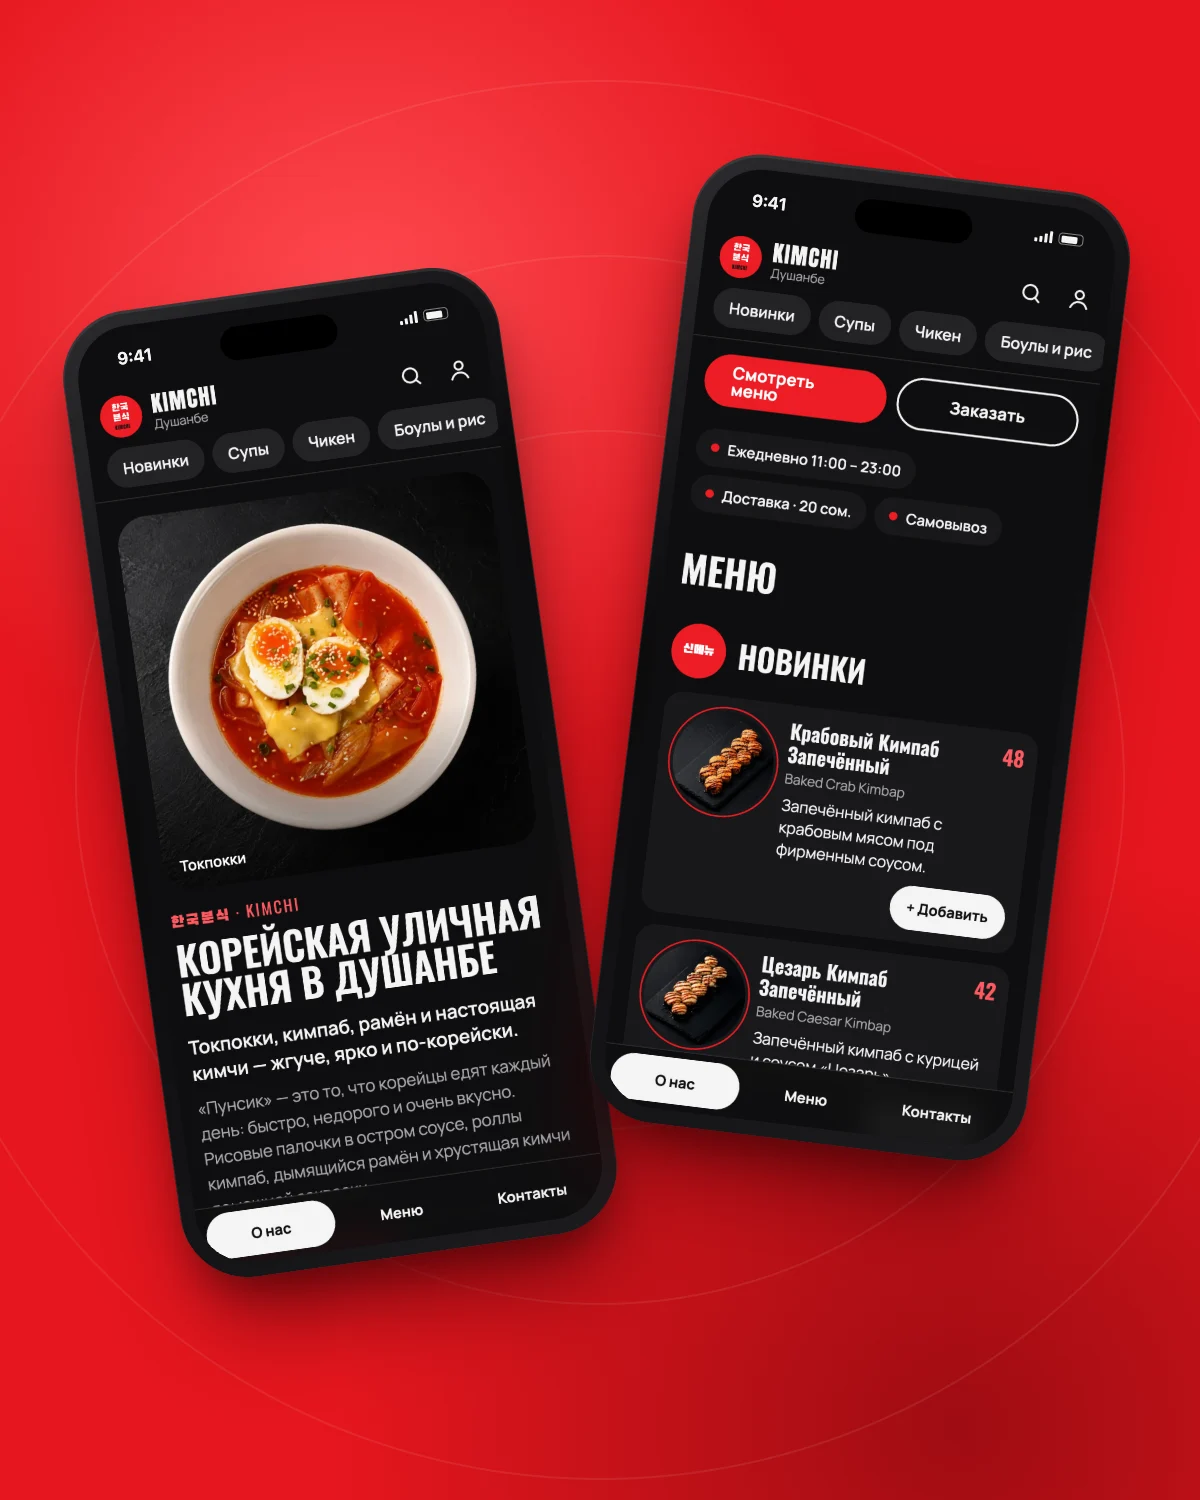
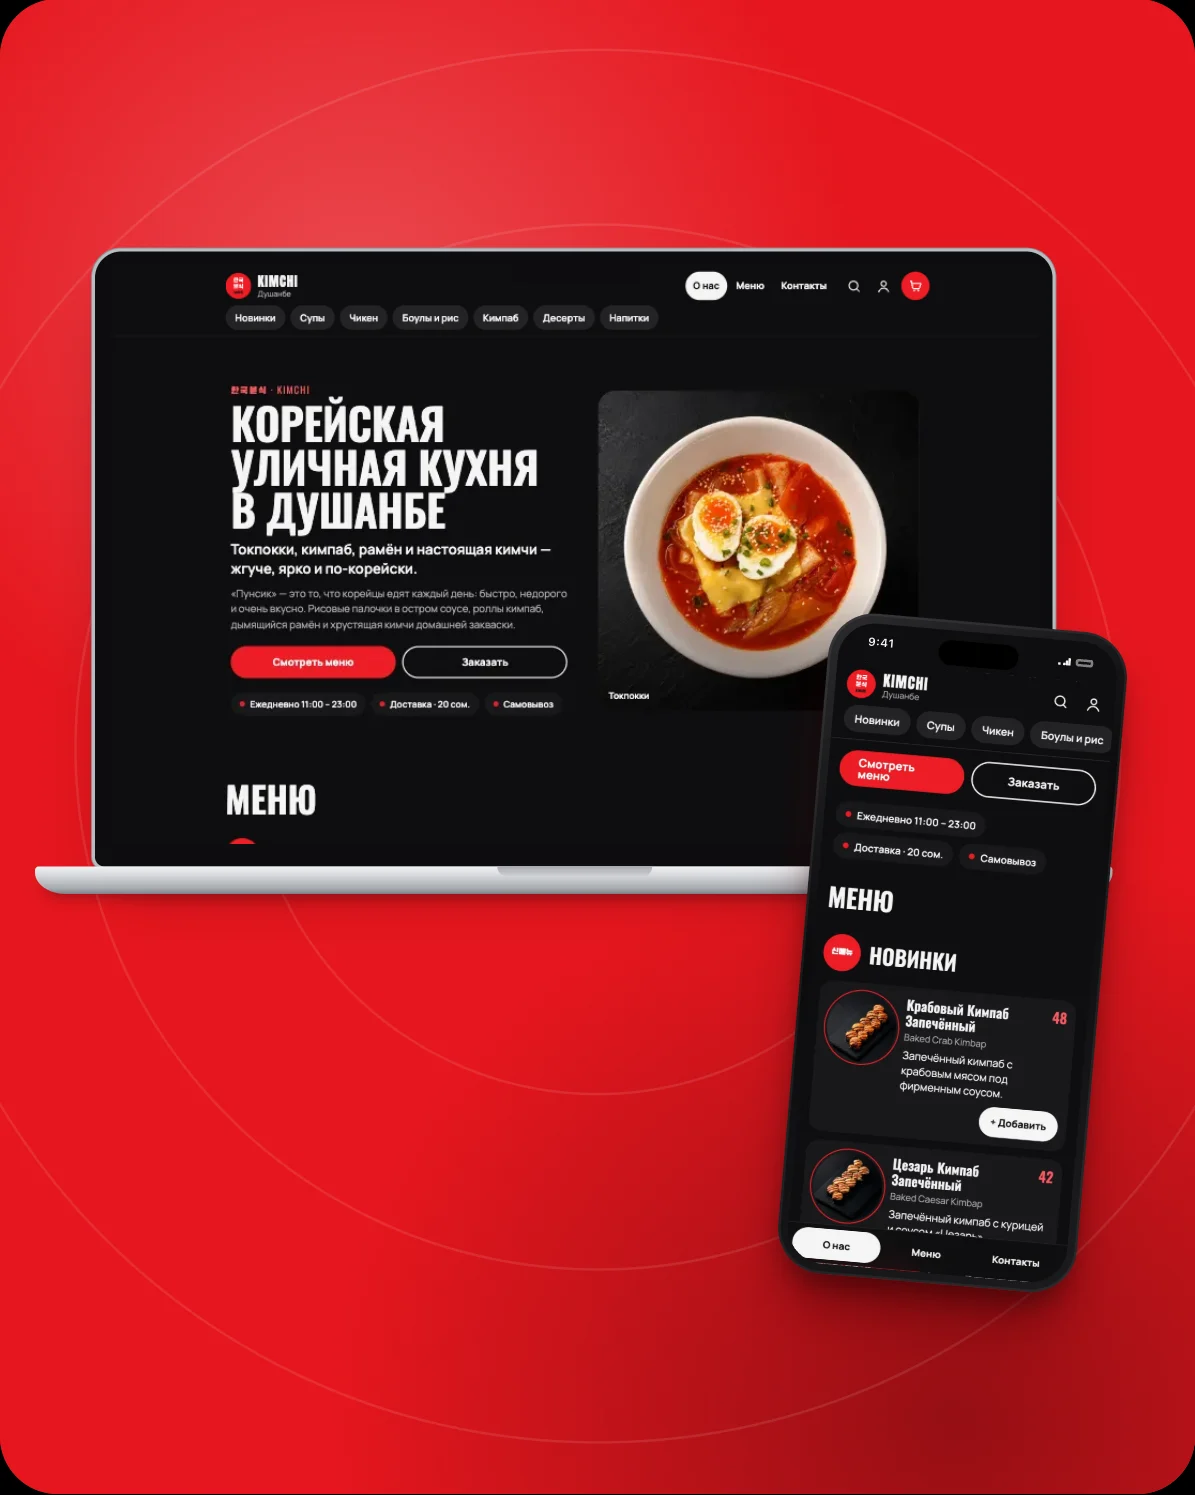
KIMCHI card: laptop + phone instead of two phones
New DeviceMock component: a MacBook-style laptop (thin bezel, notch,
silver base) showing the desktop site, with a phone in front showing
the mobile site. Both screens scroll on hover. Mobile assets renamed
to mobile-*, desktop screenshots added, cover image regenerated.

diff --git a/src/styles/global.css b/src/styles/global.css
@@ -272,8 +272,9 @@ a:hover > .roll > span, a:hover > .roll::after, .roll:hover > span, .roll:hover:
 .card__ph { width: 100%; height: 100%; display: grid; place-items: center; align-content: center; gap: 18px; color: rgba(31,29,36,.85); font-weight: 500; }
 .card__ph svg { width: 34%; transition: transform 1.2s var(--ease-out); }
 .card:hover .card__ph svg { transform: rotate(90deg); }
-/* Live phone mockup (PhoneMock.astro). Sized in cqw of the card so the whole scene
-   scales with it; the design grid is 1200x1500, so 1cqw = 12 design px. */
+/* Live device mockup (DeviceMock.astro): a laptop with a phone in front of it.
+   Sized in cqw of the card so the whole scene scales with it; the design grid is
+   1200x1500, so 1cqw = 12 design px. */
 .card__media { container-type: inline-size; }
 .card__inner { position: relative; }
 .mock {
@@ -284,46 +285,76 @@ a:hover > .roll > span, a:hover > .roll::after, .roll:hover > span, .roll:hover:
     var(--bg);
 }
 .mock__ring {
-  position: absolute; left: 50%; top: 52%; width: calc(var(--s) * 1cqw); aspect-ratio: 1;
+  position: absolute; left: 50%; top: 50%; width: calc(var(--s) * 1cqw); aspect-ratio: 1;
   border-radius: 50%; border: 1px solid rgba(255,255,255,.1); translate: -50% -50%;
 }
-.mock__phone {
-  position: absolute; width: 36.667cqw; aspect-ratio: 440 / 975; padding: 1.25cqw; border-radius: 5.667cqw;
-  background: linear-gradient(145deg, #2b2b2e, #0b0b0c 40%, #1c1c1e);
-  box-shadow: 0 0 0 1px rgba(255,255,255,.06) inset, 0 5cqw 7.5cqw -1.7cqw rgba(70,0,4,.6), 0 2cqw 3.3cqw -1.2cqw rgba(0,0,0,.45);
-  transition: rotate 1.1s var(--ease-out), translate 1.1s var(--ease-out);
-}
-.mock__phone--0 { left: 10cqw; top: 23.75cqw; rotate: -8deg; }
-.mock__phone--1 { left: 53.333cqw; top: 14.167cqw; rotate: 7deg; z-index: 1; }
-.card:hover .mock__phone--0 { rotate: -5deg; translate: 0 -1.2cqw; }
-.card:hover .mock__phone--1 { rotate: 4deg; translate: 0 -2cqw; }
-.mock__screen {
-  position: relative; height: 100%; display: flex; flex-direction: column;
-  border-radius: 4.5cqw; overflow: hidden; background: #0e0e0f;
-}
-.mock__status {
-  flex: 0 0 4.833cqw; display: flex; align-items: center; justify-content: space-between;
-  padding: .5cqw 2.833cqw 0 3.5cqw; color: #f4f4f5; font: 600 1.417cqw/1 -apple-system, 'SF Pro Text', system-ui, sans-serif;
-}
-.mock__icons { display: flex; align-items: flex-end; gap: .17cqw; }
-.mock__icons i { width: .25cqw; background: currentColor; border-radius: .1cqw; }
-.mock__icons i:nth-child(1) { height: .33cqw; }
-.mock__icons i:nth-child(2) { height: .5cqw; }
-.mock__icons i:nth-child(3) { height: .75cqw; }
-.mock__icons i:nth-child(4) { height: 1cqw; }
-.mock__icons b {
-  width: 2.1cqw; height: 1cqw; margin-left: .5cqw; padding: .125cqw; border-radius: .33cqw;
-  border: .125cqw solid rgba(244,244,245,.5);
-  background: linear-gradient(90deg, #f4f4f5 0 75%, transparent 75%) content-box;
-}
-.mock__view { position: relative; flex: 1; overflow: hidden; }
 .mock__page { position: absolute; top: 0; left: 0; width: 100%; height: auto; }
 .mock__bar { position: absolute; left: 0; width: 100%; }
 .mock__bar--top { top: 0; }
 .mock__bar--bottom { bottom: 0; }
+
+/* Laptop: thin dark bezel with a camera notch on a silver base */
+.mock__laptop {
+  position: absolute; left: 3cqw; top: 21cqw; width: 90cqw;
+  transition: translate 1.1s var(--ease-out);
+}
+.mock__lid {
+  position: relative; width: 80cqw; margin: 0 auto; padding: 1.333cqw 1.333cqw 1.833cqw;
+  background: #0c0c0e; border-radius: 2.2cqw 2.2cqw .8cqw .8cqw;
+  box-shadow: 0 0 0 .25cqw #b9bcc1, 0 0 0 .33cqw #8d9095, 0 3cqw 5cqw -2cqw rgba(60,0,4,.55);
+}
+.mock__display {
+  position: relative; aspect-ratio: 1440 / 900; overflow: hidden;
+  border-radius: .5cqw; background: #0e0e0f;
+}
+.mock__notch {
+  position: absolute; top: 1.3cqw; left: 50%; translate: -50% 0; width: 11cqw; height: 1.5cqw;
+  background: #0c0c0e; border-radius: 0 0 .7cqw .7cqw;
+}
+.mock__base {
+  position: relative; height: 2.3cqw; margin-top: -.05cqw;
+  background: linear-gradient(#f1f2f4, #d3d5d9 35%, #a6a9ae 80%, #7e8187);
+  border-radius: .3cqw .3cqw 2.6cqw 2.6cqw / .3cqw .3cqw 1.8cqw 1.8cqw;
+  box-shadow: 0 2.5cqw 4cqw -1.6cqw rgba(60,0,4,.6), 0 .8cqw 1.2cqw -.6cqw rgba(0,0,0,.35);
+}
+.mock__scoop {
+  position: absolute; top: 0; left: 50%; translate: -50% 0; width: 13cqw; height: .9cqw;
+  background: linear-gradient(#a9acb1, #cfd1d5); border-radius: 0 0 .9cqw .9cqw;
+}
+
+/* Phone in front, bottom right */
+.mock__phone {
+  position: absolute; left: 67cqw; top: 52cqw; width: 25cqw; aspect-ratio: 440 / 975;
+  padding: .852cqw; border-radius: 3.864cqw; rotate: 5deg; z-index: 1;
+  background: linear-gradient(145deg, #2b2b2e, #0b0b0c 40%, #1c1c1e);
+  box-shadow: 0 0 0 1px rgba(255,255,255,.06) inset, 0 3.4cqw 5cqw -1.2cqw rgba(60,0,4,.6), 0 1.4cqw 2.2cqw -.8cqw rgba(0,0,0,.45);
+  transition: rotate 1.1s var(--ease-out), translate 1.1s var(--ease-out);
+}
+.card:hover .mock__laptop { translate: 0 -1cqw; }
+.card:hover .mock__phone { rotate: 2deg; translate: 0 -2.2cqw; }
+.mock__screen {
+  position: relative; height: 100%; display: flex; flex-direction: column;
+  border-radius: 3.07cqw; overflow: hidden; background: #0e0e0f;
+}
+.mock__status {
+  flex: 0 0 3.296cqw; display: flex; align-items: center; justify-content: space-between;
+  padding: .34cqw 1.93cqw 0 2.39cqw; color: #f4f4f5; font: 600 .966cqw/1 -apple-system, 'SF Pro Text', system-ui, sans-serif;
+}
+.mock__icons { display: flex; align-items: flex-end; gap: .12cqw; }
+.mock__icons i { width: .17cqw; background: currentColor; border-radius: .07cqw; }
+.mock__icons i:nth-child(1) { height: .22cqw; }
+.mock__icons i:nth-child(2) { height: .34cqw; }
+.mock__icons i:nth-child(3) { height: .51cqw; }
+.mock__icons i:nth-child(4) { height: .68cqw; }
+.mock__icons b {
+  width: 1.43cqw; height: .68cqw; margin-left: .34cqw; padding: .085cqw; border-radius: .22cqw;
+  border: .085cqw solid rgba(244,244,245,.5);
+  background: linear-gradient(90deg, #f4f4f5 0 75%, transparent 75%) content-box;
+}
+.mock__view { position: relative; flex: 1; overflow: hidden; }
 .mock__island {
-  position: absolute; top: 1.333cqw; left: 50%; translate: -50% 0;
-  width: 9.833cqw; height: 2.833cqw; border-radius: 1.667cqw; background: #000;
+  position: absolute; top: .91cqw; left: 50%; translate: -50% 0;
+  width: 6.7cqw; height: 1.93cqw; border-radius: 1.14cqw; background: #000;
 }
 .card__caption { margin-top: 18px; font-size: clamp(14px, 1.1vw, 16px); line-height: 1.4; max-width: 420px; color: rgba(255,255,255,.88); }
 .work__more { display: flex; justify-content: center; margin-top: clamp(60px, 8vw, 110px); }

diff --git a/src/data/projects.ts b/src/data/projects.ts
@@ -1,6 +1,8 @@
 // Site content that changes often: projects, testimonials, clients, contacts.
 // Images/videos go in public/projects/ (e.g. image: '/projects/my-project.jpg').
 
+import type { Screen } from '../components/DeviceMock.astro';
+
 type T = { en: string; ru: string; tg: string };
 
 export type Project = {
@@ -12,11 +14,10 @@ export type Project = {
   image?: string;
   video?: string;
   /**
-   * Live phone mockup instead of a still image: a tall full-page screenshot that
-   * scrolls inside two phones on hover, with the site's header and bottom bar
-   * overlaid. `starts` are the scroll positions (CSS px) each phone begins at.
+   * Live laptop + phone mockup instead of a still image (see DeviceMock.astro):
+   * each screen scrolls through a tall screenshot of the site on hover.
    */
-  phones?: { page: string; pageHeight: number; top: string; bottom: string; starts: [number, number] };
+  mockup?: { laptop: Screen; phone: Screen };
   /** Card background (and placeholder colour until a real image is added) */
   color: string;
 };
@@ -38,12 +39,24 @@ export const projects: Project[] = [
     },
     url: 'https://kimchi-menu-dushanbe.netlify.app/',
     image: '/projects/kimchi/cover.webp',
-    phones: {
-      page: '/projects/kimchi/page.webp',
-      pageHeight: 5200,
-      top: '/projects/kimchi/top.png',
-      bottom: '/projects/kimchi/bottom.png',
-      starts: [0, 700],
+    mockup: {
+      laptop: {
+        page: '/projects/kimchi/desktop.webp',
+        pageHeight: 4200,
+        viewHeight: 900,
+        top: '/projects/kimchi/desktop-top.png',
+        start: 0,
+        travel: 1800,
+      },
+      phone: {
+        page: '/projects/kimchi/mobile.webp',
+        pageHeight: 5200,
+        viewHeight: 844,
+        top: '/projects/kimchi/mobile-top.png',
+        bottom: '/projects/kimchi/mobile-bottom.png',
+        start: 700,
+        travel: 1900,
+      },
     },
     color: '#E5161E',
   },
